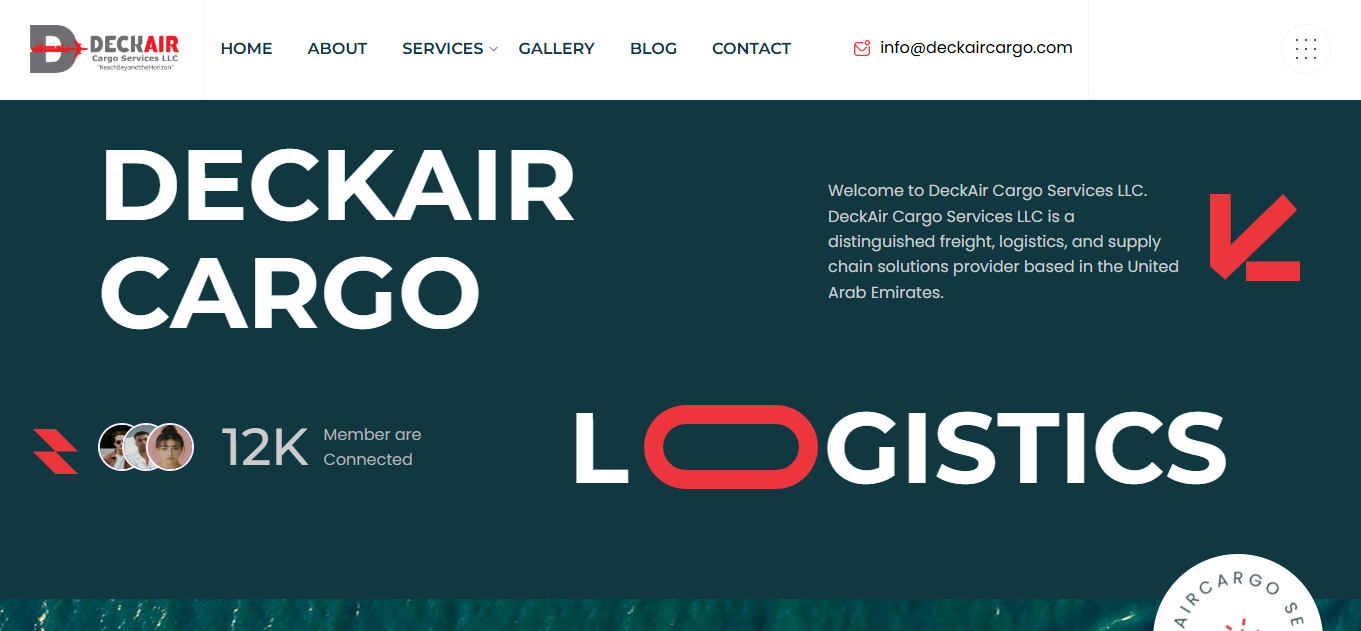
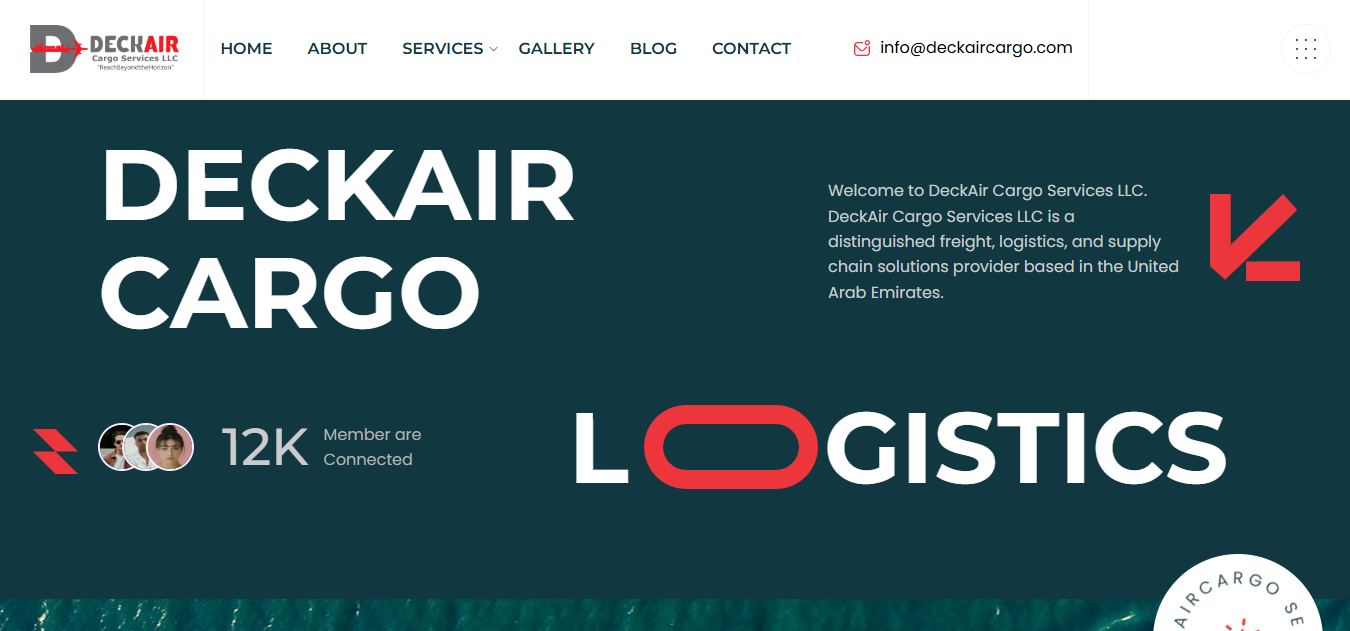
Update portfolio content

diff --git a/css/style.css b/css/style.css
@@ -277,7 +277,7 @@ div#word-mark h1 a {
 /*-- /header --*/
 
 .banner_section {
-    background: url(../images/withBlend.png) no-repeat 0px 0px;
+    background: url(../images/mainBanner.png) no-repeat 0px 0px;
     width: 100vw;
     height: 100vh;
     background-size: cover;
@@ -506,6 +506,16 @@ h4.progress-tittle-w3 {
     background: rgba(243, 244, 245, 0.17);
     transition: ease 0.4s;
 }
+@media (min-width: 992px){
+     .service-in .card{
+        height: 270px;
+     }
+}
+@media (min-width: 1200px){
+     .service-in .card{
+        height: 300px;
+     }
+}
 .service-in .card:hover{
     background: #2b97fc70;
 }
@@ -676,7 +686,7 @@ p.sub-meta {
 .section_1_gallery_grid1 {
     position: relative;
     background: #ffffffe5;
-    padding: 15px;
+    padding: 16px;
 }
 
 .proj_gallery_grid1_pos {
@@ -739,6 +749,11 @@ p.quia {
 
 .proj_gallery_grid img {
     width: 100%;
+}
+@media (min-width: 992px) and (max-width: 1199px) {
+  .section_1_gallery_grid1 {
+    height: 380px;
+  }
 }
 /*-- //gallery --*/
 
@@ -1625,7 +1640,7 @@ ul.social-icons li a:hover {
         width:400px; 
     }
     .banner_section {
-    background: url(../images/mobileWithBlend.png) no-repeat 0px 0px;
+    background: url(../images/mobileBanner.png) no-repeat 0px 0px;
     width: 100vw;
     height: 100vh;
     background-size: cover;
@@ -1651,6 +1666,11 @@ ul.social-icons li a:hover {
     opacity: 0.3;
     background: #030911;
 }
+.banner-info {
+        position: absolute;
+        top: 39%;
+        left: 3%;
+    }
 }
 
 @media(max-width:768px) {
@@ -1856,11 +1876,6 @@ ul.social-icons li a:hover {
     .about-me-photo img{
         width:400px; 
     }
-    .banner-info {
-        position: absolute;
-        top: 37%;
-        left: 3%;
-    }
 }
 
 @media(max-width:575px){
@@ -1954,7 +1969,7 @@ ul.social-icons li a:hover {
     .section_1_gallery_grid1 {
         position: relative;
         background: #ffffffe5;
-        padding: 15px;
+        padding: 17px;
     }
 }
 
@@ -2004,7 +2019,13 @@ ul.social-icons li a:hover {
         padding: 5em 0.5em; 
      }
      .section_1_gallery_grid1 {
-        padding: 8px 8px 1px 8px;
+        padding: 9px 9px 5px 9px;
+    }
+    .banner_section{
+        height: 668px;
+    }
+    .banner_section:before{
+        height: 100%;
     }
 }
 
@@ -2101,9 +2122,7 @@ ul.social-icons li a:hover {
 }
 
 @media(max-width:414px) {
-    .banner_section {
-        height: 100vh;
-    }
+    
     #brand {
         padding-left: 10px;
         float: left;
@@ -2195,7 +2214,6 @@ ul.social-icons li a:hover {
     .about-me-photo img{
         width:400px; 
     }
-    
 }
 
 @media(max-width:320px) {
@@ -2226,6 +2244,7 @@ ul.social-icons li a:hover {
     .about-me-photo img{
         width:400px; 
     }
+    
 }
 @media (max-height: 515px) {
     .banner_section {

diff --git a/index.html b/index.html
@@ -545,7 +545,9 @@ RIGHT SIDEBAR TOGGLE SECTION
                 </div>
             </div>
 
-            <div class="col-12 col-lg-6 proj_gallery_grid" data-aos="zoom-in">
+
+
+    <div class="col-12 col-lg-6 proj_gallery_grid" data-aos="zoom-in">
                 <div class="section_1_gallery_grid" data-aos="zoom-in">
                     <a title="https://deckaircargo.com" href="https://deckaircargo.com" target="_blank" data-lightbox="disabled">
                         <div class="section_1_gallery_grid1">
@@ -578,6 +580,7 @@ RIGHT SIDEBAR TOGGLE SECTION
                 </div>
             </div>
 
+            
             <div class="proj_gallery_grid d-lg-flex" data-aos="zoom-in">
                 <div class="col-12 col-lg-6 section_1_gallery_grid" data-aos="zoom-in">
                     <a title="https://amazon-clone-munthahak.vercel.app" href="https://amazon-clone-munthahak.vercel.app" target="_blank" data-lightbox="disabled">
